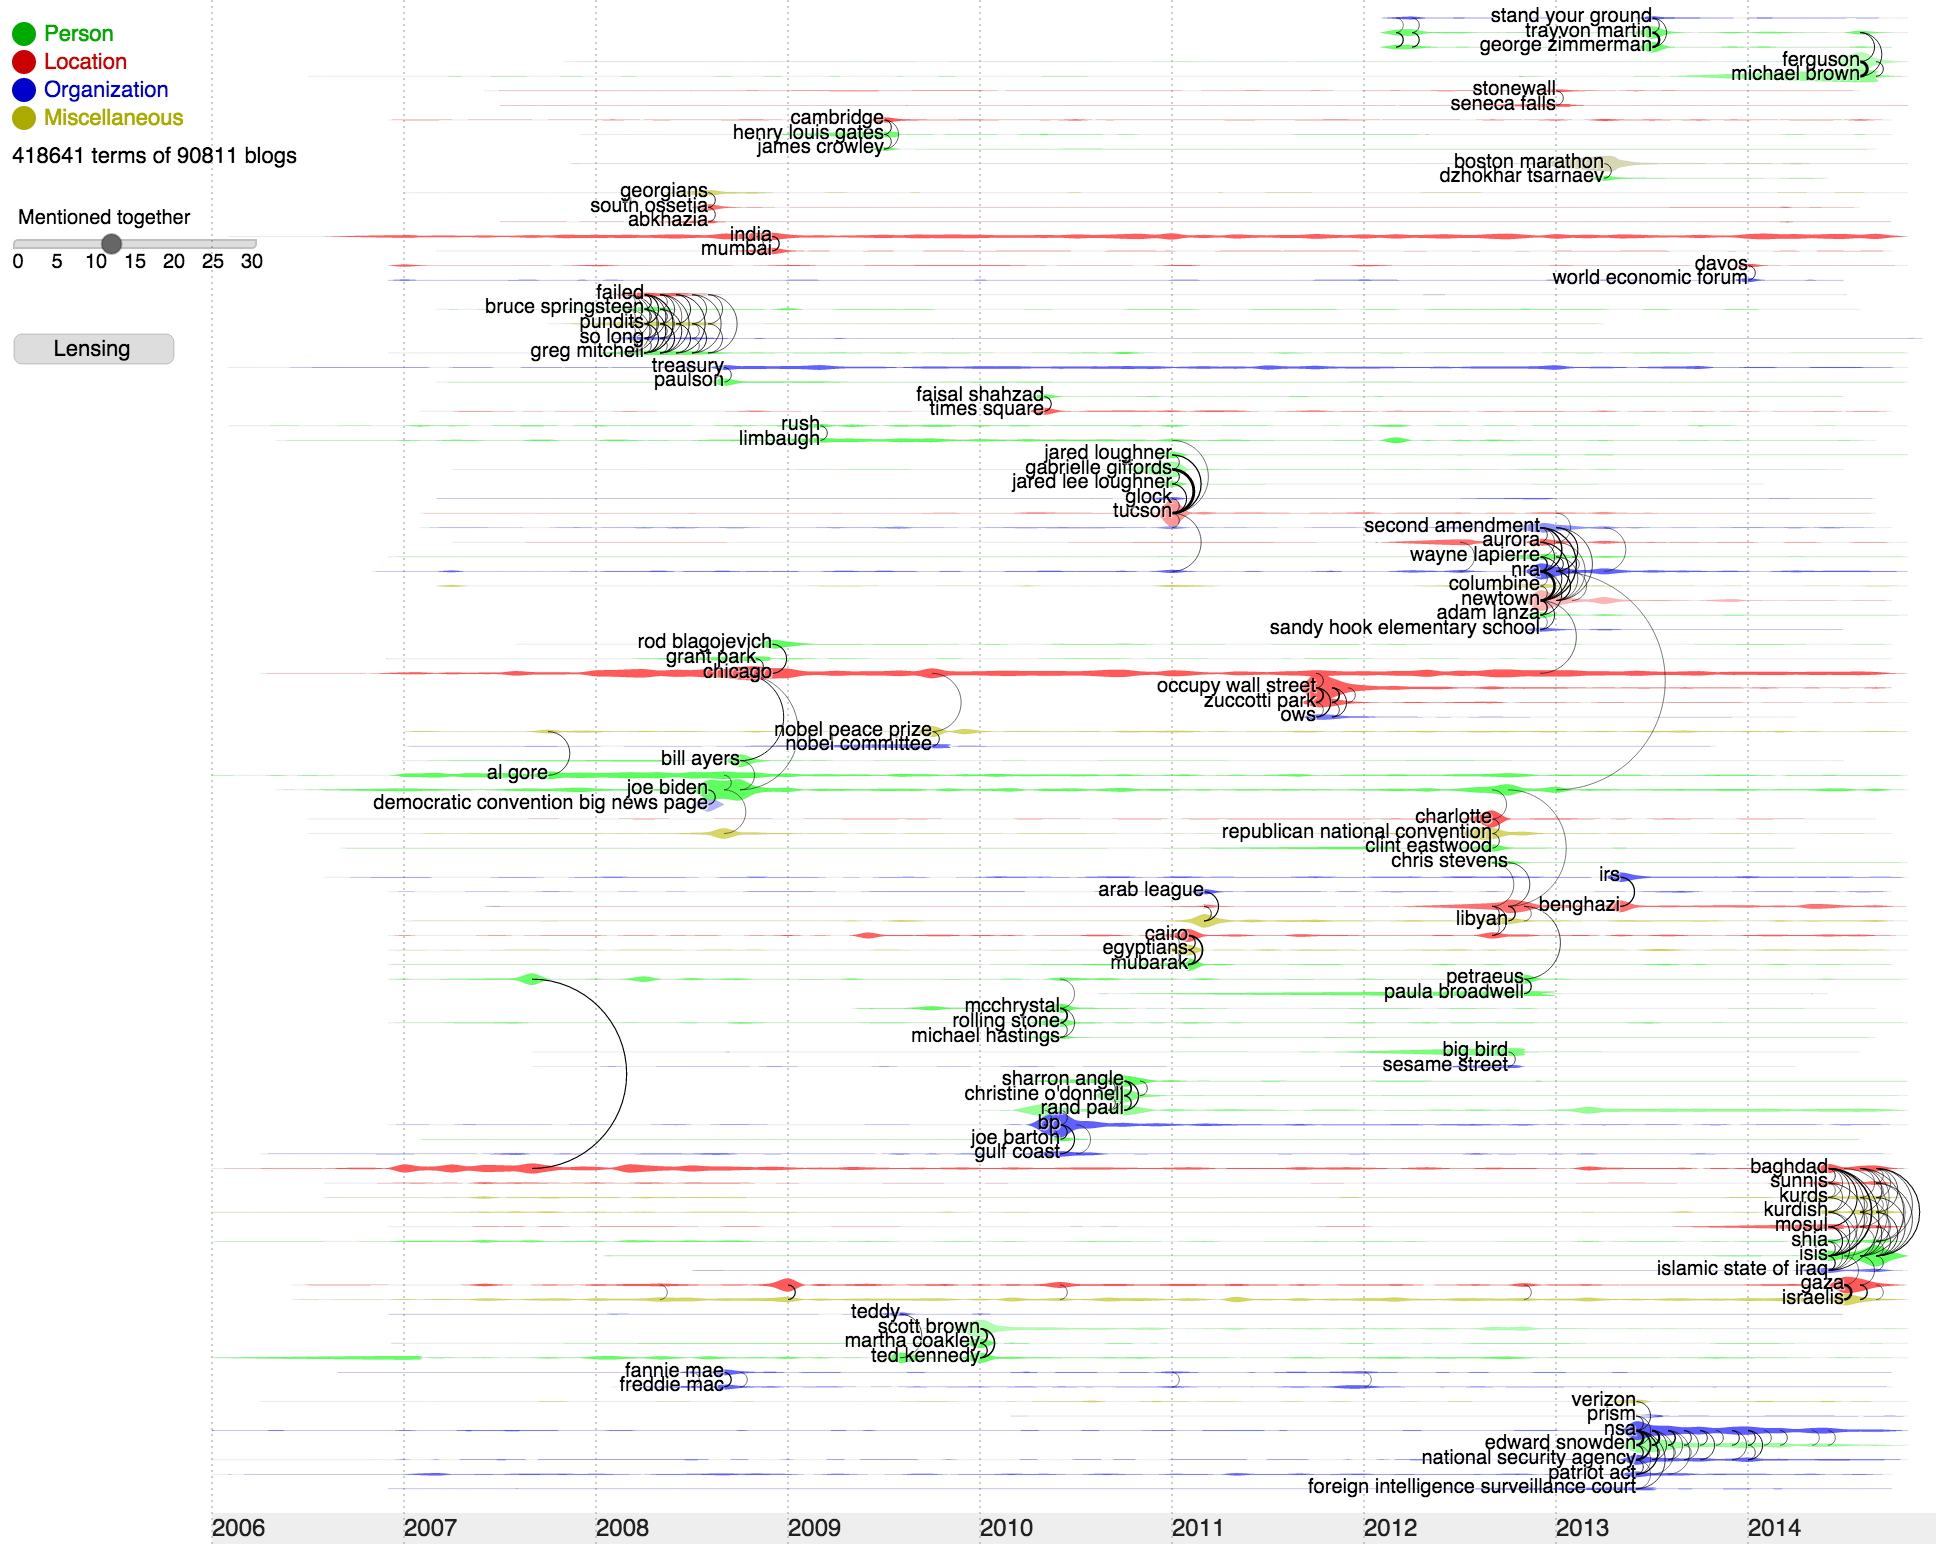
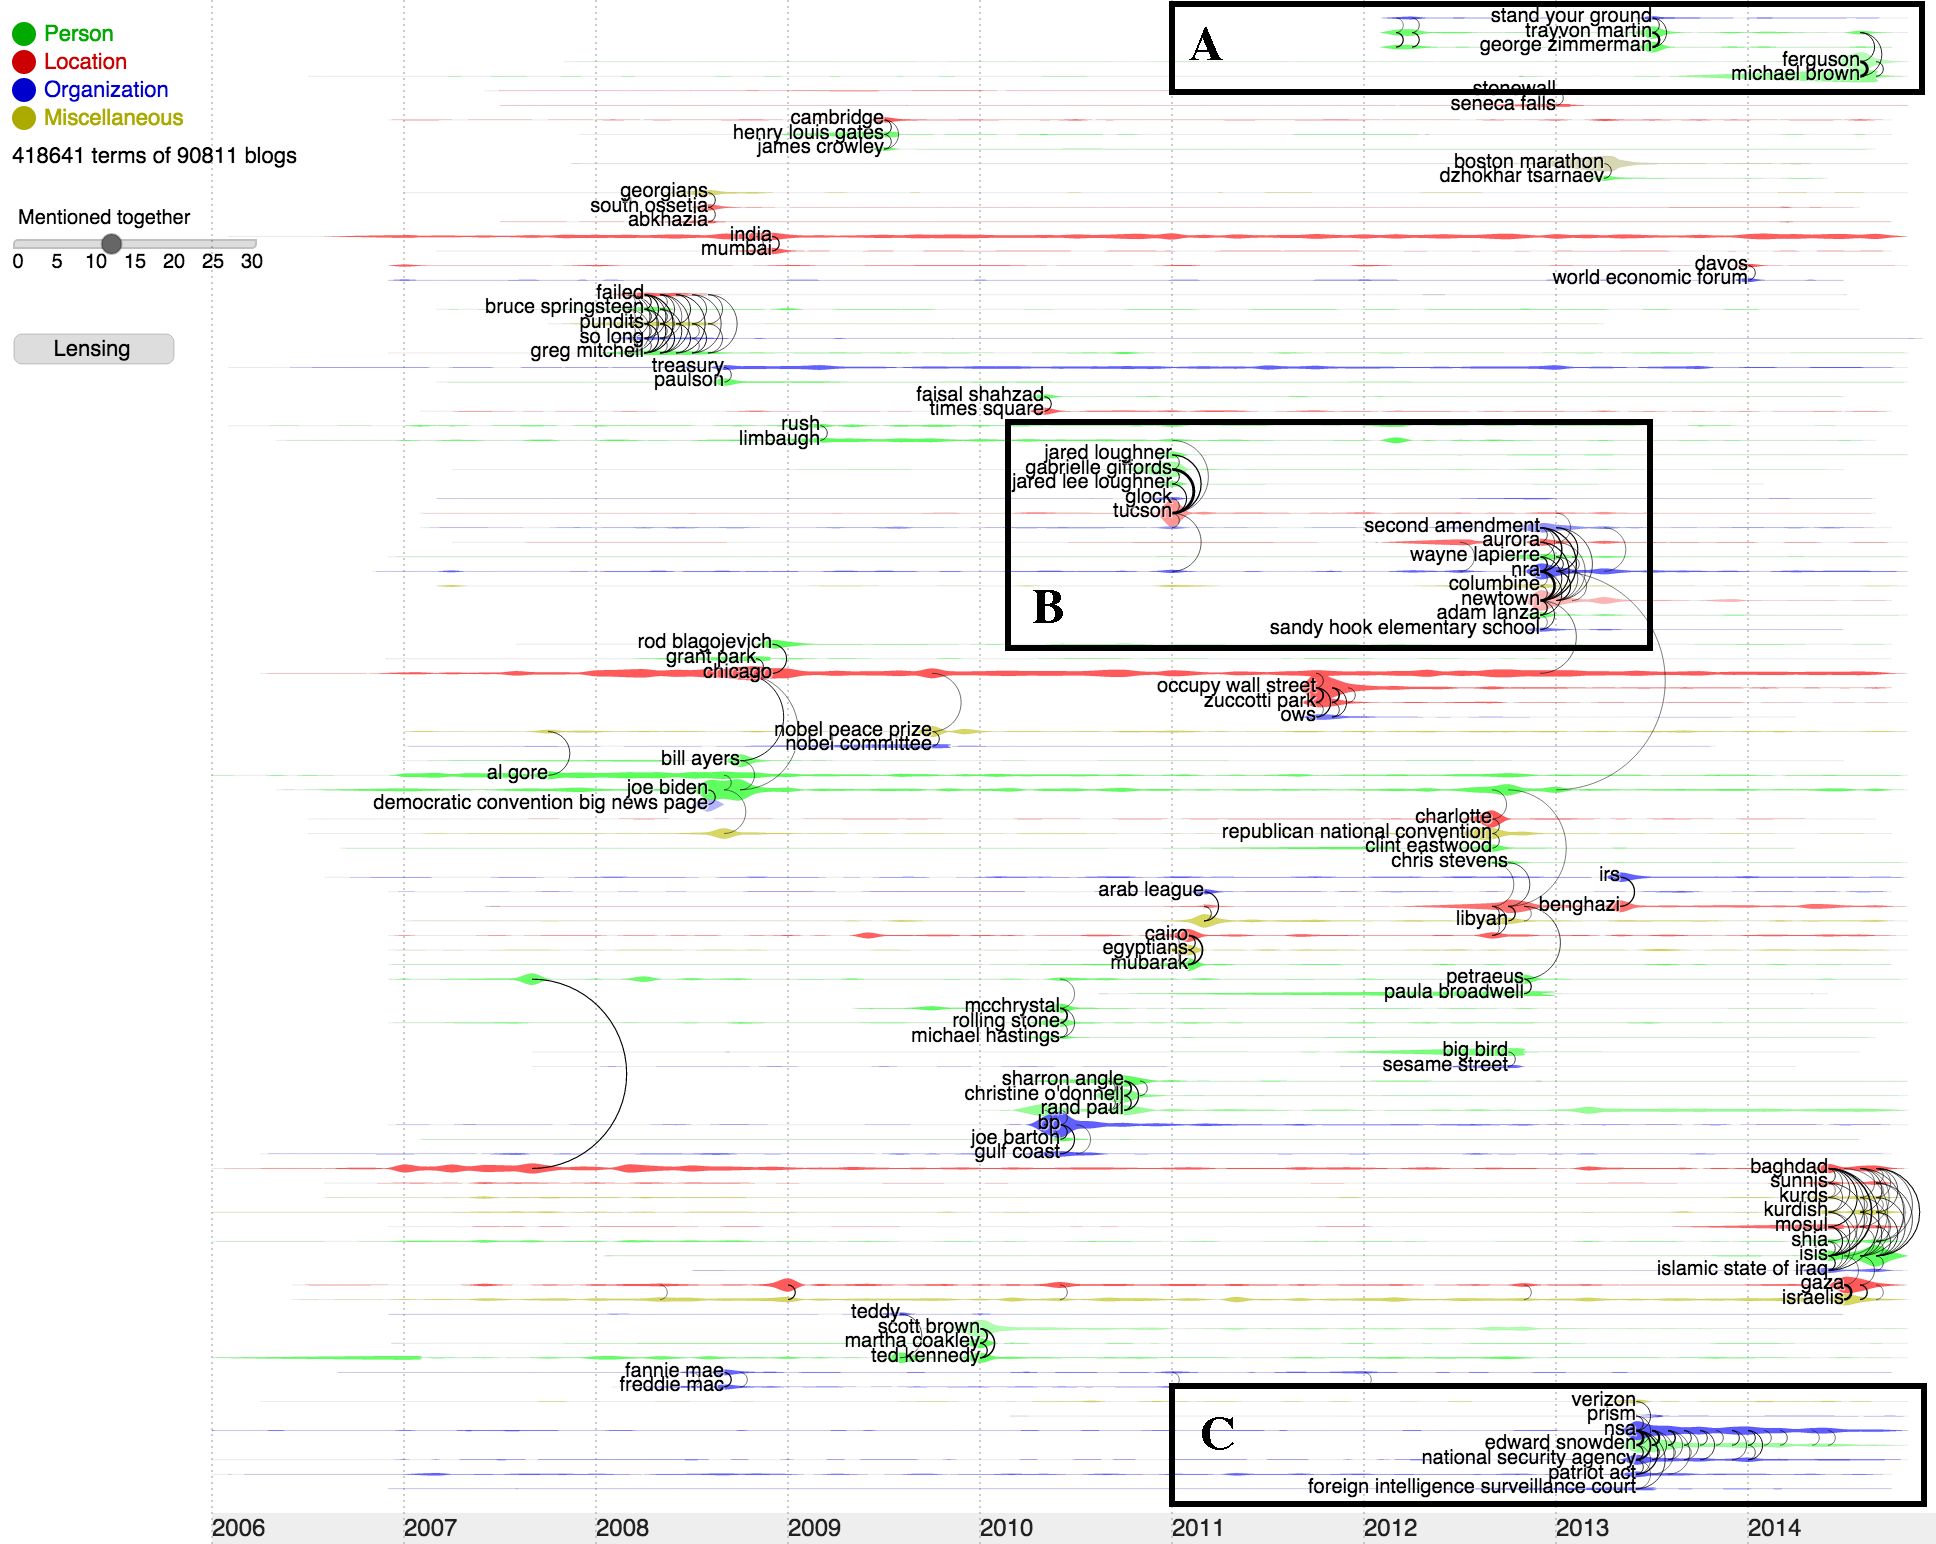
Update readme

diff --git a/README.md b/README.md
@@ -6,8 +6,18 @@ Please click to watch the overview video.
 We introduce *TimeArcs*, a novel visualization technique for representing the dynamic relationships between entities in a network. In many application domains, relationships between entities are not temporally stable, which means that cluster structures and cluster memberships also may vary across time. Our technique provides a big picture overview of the most significant clusters over time. *TimeArcs* also supports a range of interactive features, such as allowing users to drill-down in order to see details about a particular cluster. To highlight the benefits of this technique, we demonstrate its application to various datasets, including the collocated popular phrases obtained from political blogs, IMDB co-star network, and  a dataset showing conflicting evidences within biomedical literature of protein interactions.  
 
 ### Exploring Topics and Events in Political Blogs
+The following image shows the top 100 terms in nearly 100,000 political blog posts in last 10 years. Terms are color-coded by category as depicted on the top left. Terms appears together in political blogs are brought closer and connected by arcs the thickness indicating their collocated frequency. 
 
-[![ScreenShot](https://github.com/CreativeCodingLab/TimeArcs/blob/master/Text/images/PoliticalBlogs1.png)]
+### Box A:
+Viewers can quickly see the major political event such as the Sandy Hook Elementary School shooting or the 2011 shooting by Jared Loughner. Notice that the two events happened in Tucson and hence both connected to this term. And this is why they are sitting closer on the vertical axis. 
+
+### Box B:
+In the blogs about Ferguson and Michael Brown in 2014, the name Trayvon Martin is often mentioned due to the similar nature of the two events. 
+
+### Box C:
+Some relationships last for long period of time such as those between Edward Snowden and NSA. Viewers can lens into a period of time to see the details by mousing over the time axis. 
+
+[ScreenShot](https://github.com/CreativeCodingLab/TimeArcs/blob/master/Text/images/PoliticalBlogs1.png)
 
 ### Finding Patterns in the IMDB Co-Star Network
 
